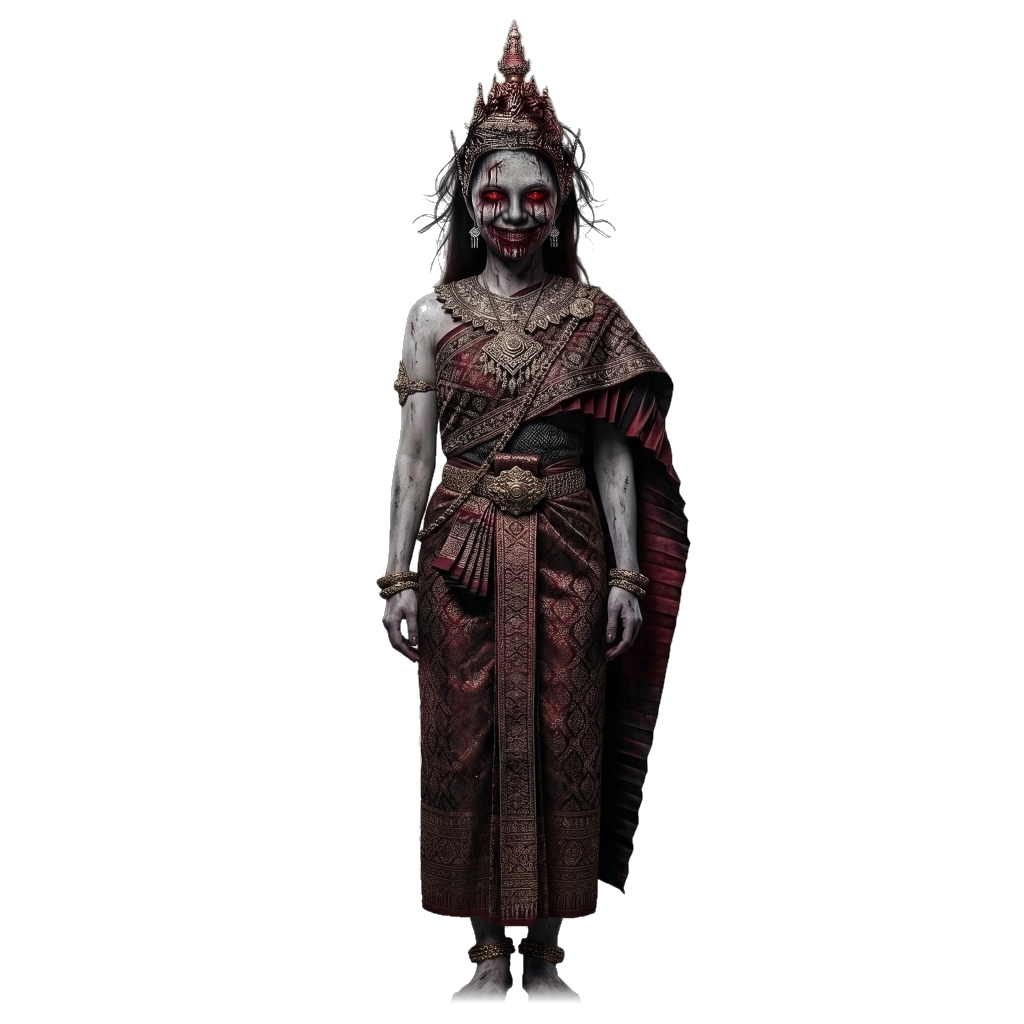
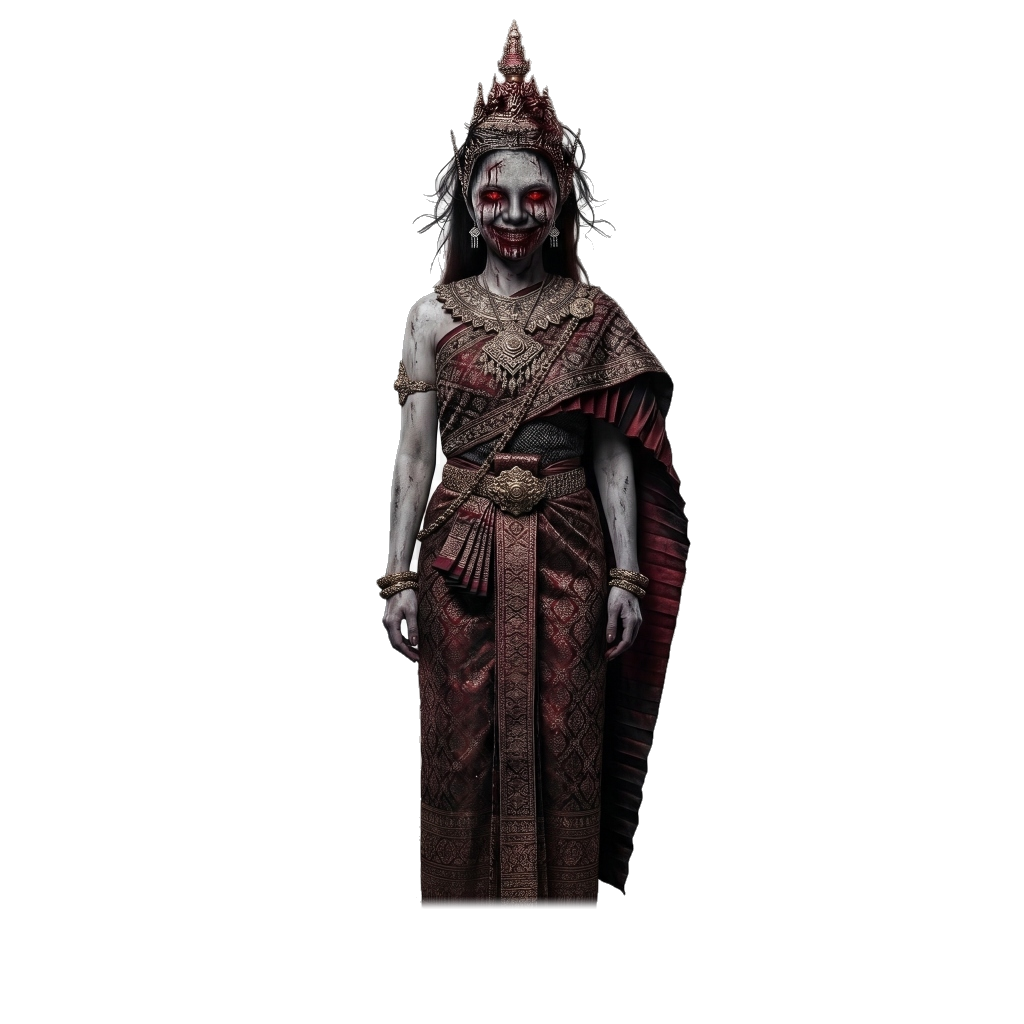
fix: crop feet completely at skirt hem to eliminate all bottom checkerboard

Changed region(s): [[0.4062, 0.875, 0.5938, 1.0]]

diff --git a/components/PeekabooGhost.jsx b/components/PeekabooGhost.jsx
@@ -86,7 +86,7 @@ export default function PeekabooGhostDemo() {
           PEEKABOO GHOST OVERLAY (Fixed Bottom-Right)
           ========================================================================= */}
       <div
-        className={`fixed bottom-0 right-0 z-50 pointer-events-none select-none transition-transform duration-700 ease-in-out ${
+        className={`fixed -bottom-8 right-0 z-50 pointer-events-none select-none transition-transform duration-700 ease-in-out ${
           isVisible ? 'translate-x-0' : 'translate-x-full'
         }`}
         aria-hidden={!isVisible}

diff --git a/peekaboo-demo.html b/peekaboo-demo.html
@@ -31,7 +31,7 @@
   <!-- PEEKABOO GHOST (Fixed Bottom Right) -->
   <div
     id="peekaboo-ghost"
-    class="fixed bottom-0 right-0 z-50 pointer-events-none select-none translate-x-full transition-transform duration-700 ease-in-out"
+    class="fixed -bottom-8 right-0 z-50 pointer-events-none select-none translate-x-full transition-transform duration-700 ease-in-out"
   >
     <div class="relative">
       <div id="ghost-glow" class="absolute top-[10%] left-[5%] right-[5%] bottom-[20%] bg-red-600/20 blur-3xl rounded-full opacity-0 transition-opacity duration-1000"></div>

diff --git a/components/PeekabooGhost.tsx b/components/PeekabooGhost.tsx
@@ -48,7 +48,7 @@ export const PeekabooGhostOverlay: React.FC<{
 
   return (
     <div
-      className={`fixed bottom-0 right-0 z-50 pointer-events-none select-none transition-transform duration-700 ease-in-out ${
+      className={`fixed -bottom-8 right-0 z-50 pointer-events-none select-none transition-transform duration-700 ease-in-out ${
         isVisible ? 'translate-x-0' : 'translate-x-full'
       }`}
       aria-hidden={!isVisible}

diff --git a/css/style.css b/css/style.css
@@ -1786,7 +1786,7 @@ html.js-enabled .reveal.is-visible {
    ========================================================================== */
 .peekaboo-ghost {
   position: fixed;
-  bottom: -6px;
+  bottom: clamp(-45px, -5vh, -25px);
   right: 0;
   z-index: 950;
   pointer-events: none;
